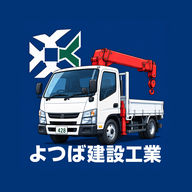
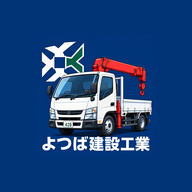
Android 用の丸い切り抜きアイコン（maskable）を余白を広げた改良版に差し替え
- icon-maskable-512/192 を差し替え（絵が安全な円の中に全部収まる）
- アドレスの版番号を ?v=3、service worker のキャッシュを sharyo-v3 に上げる

Changed region(s): [[0.125, 0.125, 0.875, 0.875]]

diff --git a/sw.js b/sw.js
@@ -2,10 +2,10 @@
 // - アプリの画面（HTML/CSS/JS/アイコン）は「新しいものを優先、つながらないときは保存済みを使う」
 // - Firebase の SDK とフォントは一度読んだら保存済みを使う（版が固定のため）
 // - データ（Firestore）と写真（Storage）は Firebase が自分で処理するので、ここでは触らない
-const CACHE = "sharyo-v2"; // 版を上げると、スマホに保存した古い画面・アイコンを入れ替える
+const CACHE = "sharyo-v3"; // 版を上げると、スマホに保存した古い画面・アイコンを入れ替える
 const SHELL = [
   "./", "./index.html", "./style.css", "./app.js", "./firebase-config.js", "./manifest.webmanifest",
-  "./icons/icon-192.png?v=2", "./icons/icon-512.png?v=2", "./icons/icon-maskable-192.png?v=2", "./icons/icon-maskable-512.png?v=2",
+  "./icons/icon-192.png?v=2", "./icons/icon-512.png?v=2", "./icons/icon-maskable-192.png?v=3", "./icons/icon-maskable-512.png?v=3",
   "./icons/apple-touch-icon.png?v=2", "./icons/favicon-32.png?v=2",
 ];
 
